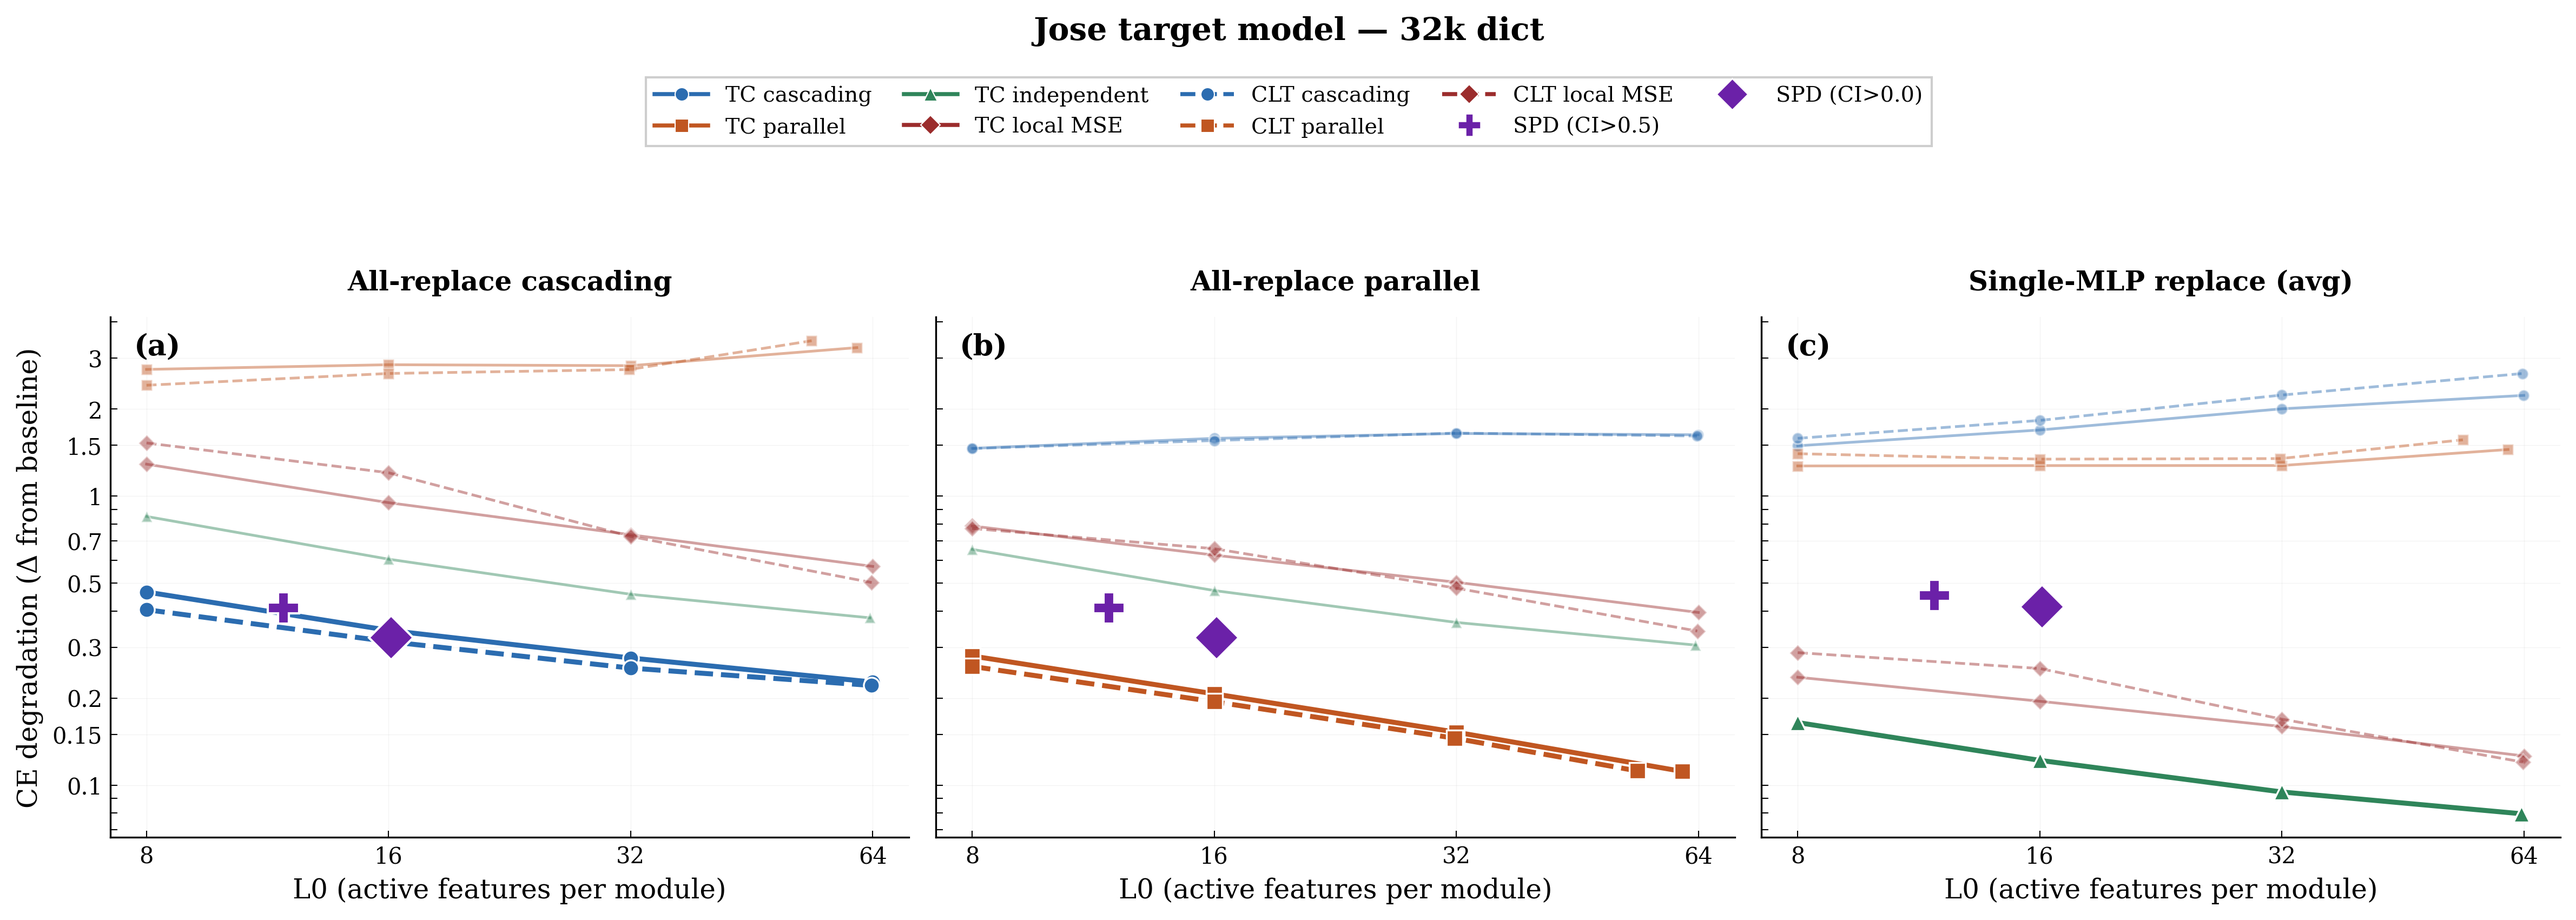
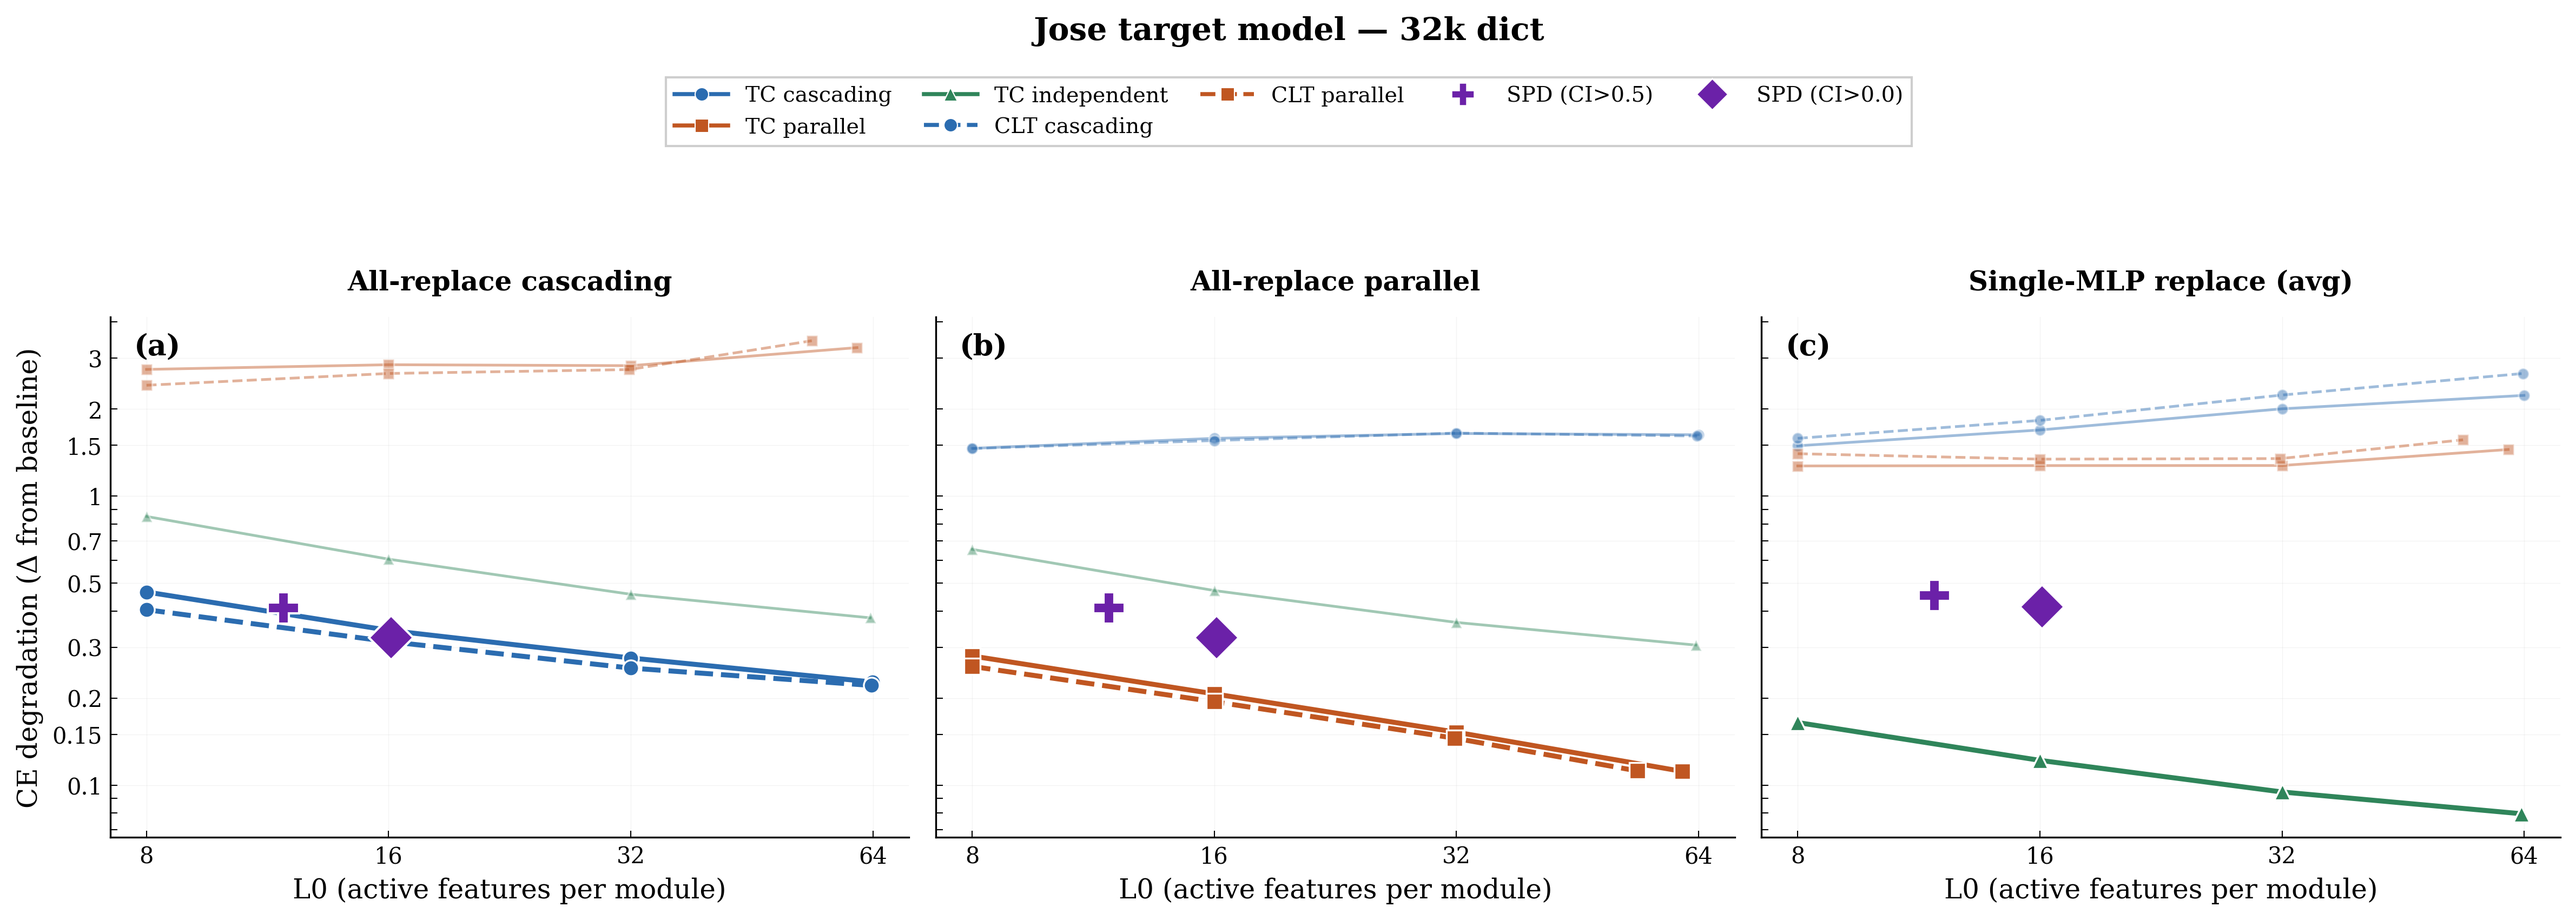
Remove local_mse models from exp_040 plots (e2e only)

diff --git a/experiments/exp_040_eval_e2e_jose_v2/plot_e2e_jose_v2.py b/experiments/exp_040_eval_e2e_jose_v2/plot_e2e_jose_v2.py
@@ -39,20 +39,16 @@ MODEL_STYLES = {
     "tc_cascading":    dict(marker="o", color="#2b6cb0", linewidth=1.8, markersize=6, linestyle="-"),
     "tc_parallel":     dict(marker="s", color="#c05621", linewidth=1.8, markersize=6, linestyle="-"),
     "tc_independent":  dict(marker="^", color="#2f855a", linewidth=1.8, markersize=6, linestyle="-"),
-    "tc_local_mse":    dict(marker="D", color="#9b2c2c", linewidth=1.8, markersize=6, linestyle="-"),
     "clt_cascading":   dict(marker="o", color="#2b6cb0", linewidth=1.8, markersize=6, linestyle="--"),
     "clt_parallel":    dict(marker="s", color="#c05621", linewidth=1.8, markersize=6, linestyle="--"),
-    "clt_local_mse":   dict(marker="D", color="#9b2c2c", linewidth=1.8, markersize=6, linestyle="--"),
 }
 
 LABEL_MAP = {
     "tc_cascading": "TC cascading",
     "tc_parallel": "TC parallel",
     "tc_independent": "TC independent",
-    "tc_local_mse": "TC local MSE",
     "clt_cascading": "CLT cascading",
     "clt_parallel": "CLT parallel",
-    "clt_local_mse": "CLT local MSE",
 }
 
 EVAL_MODES = [
@@ -153,8 +149,8 @@ def plot_three_panel(baseline_ce, results, spd_results, save_path, title_suffix=
         for h, l in zip(*ax.get_legend_handles_labels()):
             seen.add(l)
 
-    for model_name in ["tc_cascading", "tc_parallel", "tc_independent", "tc_local_mse",
-                       "clt_cascading", "clt_parallel", "clt_local_mse"]:
+    for model_name in ["tc_cascading", "tc_parallel", "tc_independent",
+                       "clt_cascading", "clt_parallel"]:
         if LABEL_MAP[model_name] not in seen:
             continue
         s = MODEL_STYLES[model_name]
